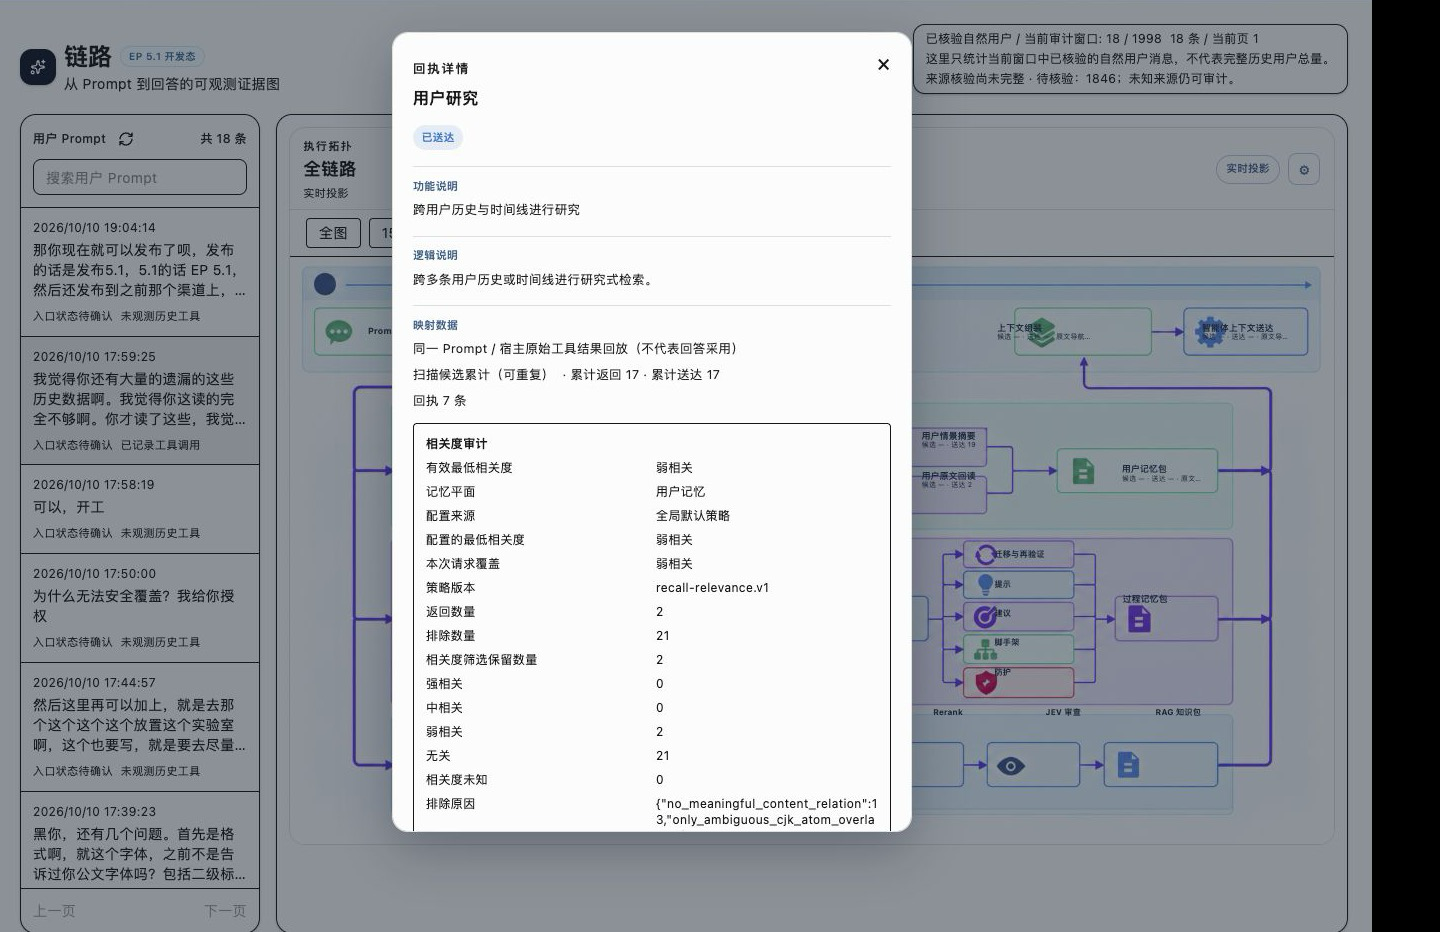
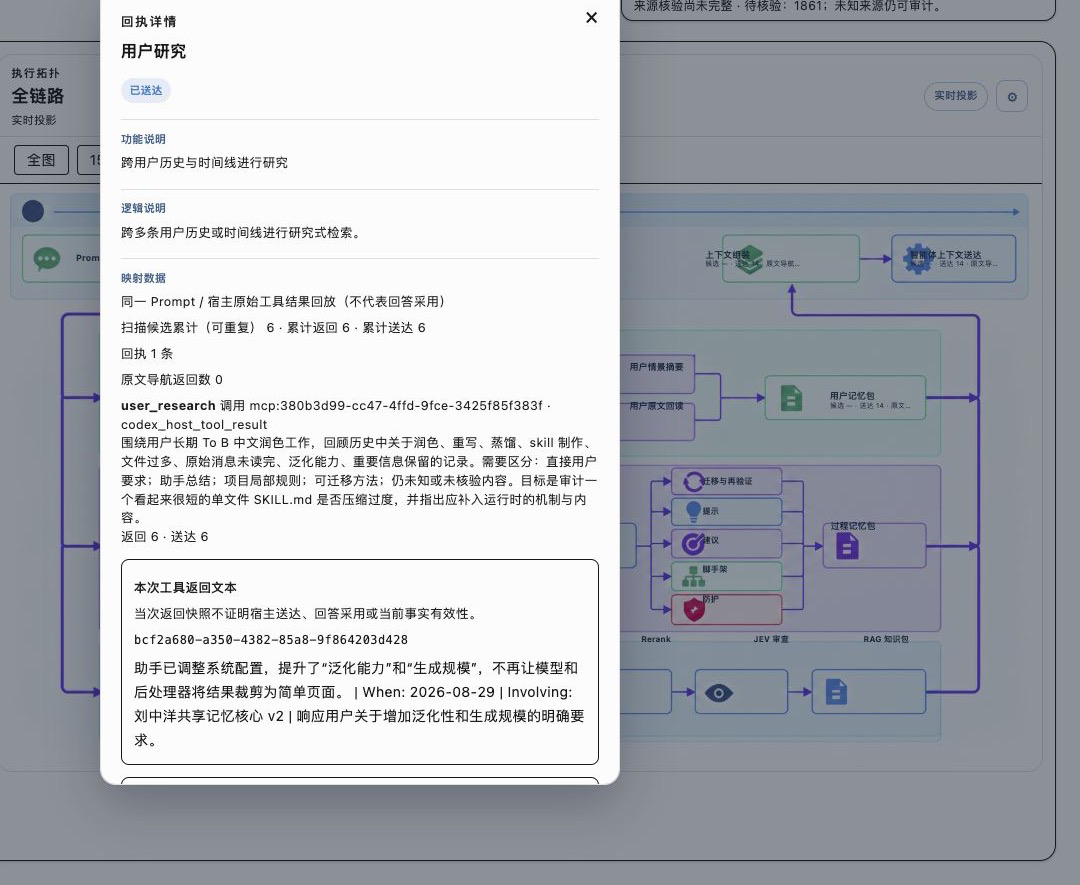
docs: add current bilingual 5.1 evidence screenshots

diff --git a/README.md b/README.md
@@ -128,13 +128,13 @@ Prompt → Hook binding → Task Contract → FORK
 MERGE → Context Assembly → Agent Execution → Writeback → Audit → Answer
 ```
 
-![EP 5.1 data-rich flow evidence](docs/assets/ep51-flow-data-zh.png)
+![EP 5.1 data-rich flow evidence](docs/assets/ep51-flow-data-en.png)
 
 This is a real localized console capture, not a synthetic benchmark. It shows
 large indexed-memory counts, route branches, context decisions, and the visible
 distinction between waiting, observed, delivered, and unknown answer-use states.
 
-![EP 5.1 receipt detail evidence](docs/assets/ep51-receipt-detail-zh.png)
+![EP 5.1 receipt detail evidence](docs/assets/ep51-receipt-detail-en.png)
 
 Clicking a node exposes relevance floor, memory plane, returned/excluded counts,
 relevance bands, filtering reasons, policy version, and source-readback state.
